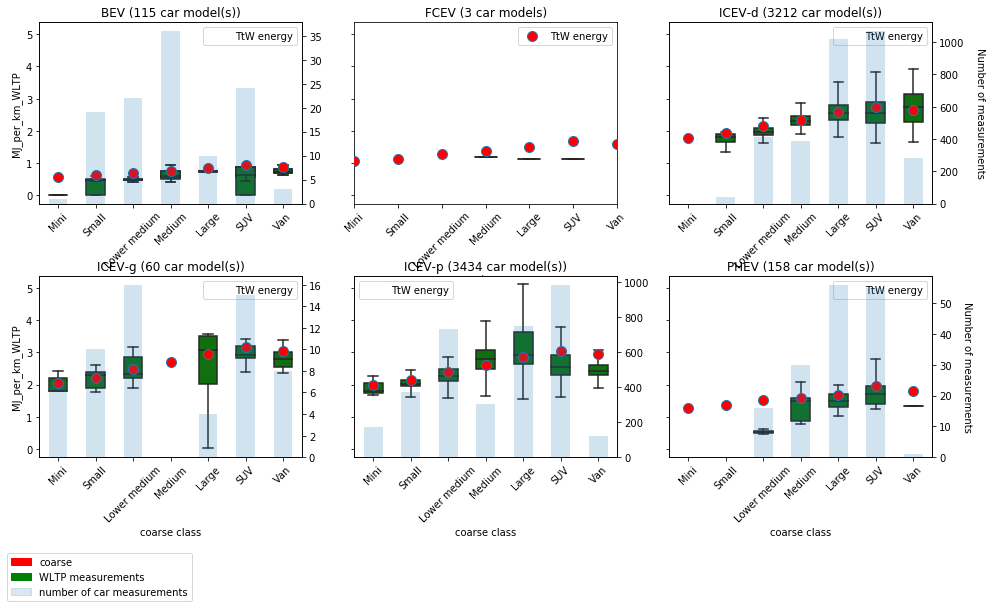
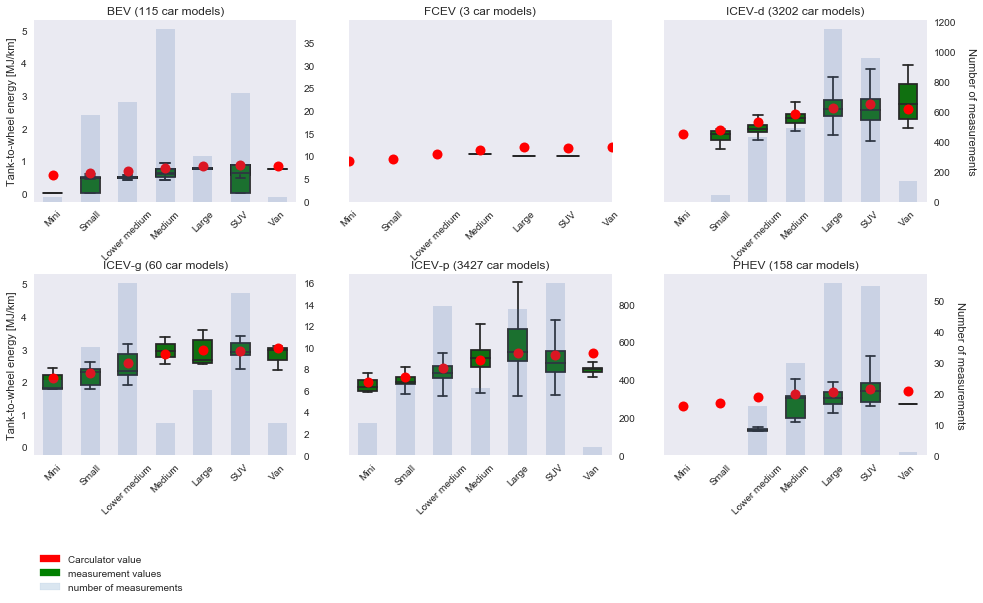
Update documentation

diff --git a/carculator/export.py b/carculator/export.py
@@ -282,7 +282,6 @@ class ExportInventory:
                         "code": str(uuid.uuid1()),
                     }
                 )
-
         if presamples:
             return (list_act, presamples_matrix)
         else:

diff --git a/docs/introduction.rst b/docs/introduction.rst
@@ -69,11 +69,7 @@ Once your environment created, you should activate it::
 
     conda activate <name of the environment>
 
-And install the development version of the ``carculator`` package in your new environment via Conda::
-
-    conda install -c conda-forge -c pascallesage -c cmutel -c romainsacchi/label/nightly carculator-dev
-
-Or from the Python Package Index::
+And install the ``carculator`` library in your new environment via Conda::
 
     pip install carculator
 
@@ -85,9 +81,12 @@ How to use it?
 Static vs. Stochastic mode
 **************************
 
-The inventories can be calculated using the most likely value of the given input parameters, but also using
-randomly-generated values based on a probability distribution for those.
-For example, the drivetrain efficiency of SUVs, regardless of the powertrain, is given the most likely value of 0.38,
+Note: many examples are given in this `notebook <https://github.com/romainsacchi/carculator/blob/master/examples/Examples.ipynb>`_ that you can run directly on your computer..
+
+The inventories can be calculated using the most likely value of the given input parameters ("static" mode), but also using
+randomly-generated values based on a probability distribution for those ("stochastic" mode).
+
+For example, the drivetrain efficiency of SUVs in 2017, regardless of the powertrain, is given the most likely value (i.e., the mode) of 0.38,
 but with a triangular probability distribution with a minimum and maximum of 0.3 and 0.4, respectively.
 
 Creating car models in static mode will use the most likely value of the given parameters to dimension the cars, etc., such as:
@@ -118,7 +117,7 @@ This effectively creates 800 iterations of the same car models, picking pseudo-r
 within the probability distributions defined. This allows to assess later the effect of uncertainty propagation on
 characterized results.
 
-In both case, a CarModel object is returned, with a 3-dimensional array `array` to store the generated parameters values, with the following dimensions:
+In both case, a CarModel object is returned, with a 4-dimensional array `array` to store the generated parameters values, with the following dimensions:
 
 0. Vehicle size, e.g. "small", "medium". str.
 1. Powertrain, e.g. "ICE-p", "BEV". str.
@@ -162,14 +161,24 @@ Then, you simply pass this dictionary to `modify_xarray_from_custom_parameters(<
 Alternatively, instead of a Python dictionary, you can pass a file path pointing to an Excel spreadsheet that contains
 the values to change, following `this template <https://github.com/romainsacchi/carculator/raw/master/docs/template_workbook.xlsx>`_.
 
+The following probability distributions are accepted:
+* "triangular"
+* "lognormal"
+* "normal"
+* "uniform"
+* "none"
+
 Inter and extrapolation of parameters
 *************************************
 
+``carculator`` creates by default car models for the year 2000, 2010, 2017 and 2040.
 It is possible to inter and extrapolate all the parameters to other years simply by writing:
 
 .. code-block:: python
 
     array = array.interp(year=[2018, 2022, 2035, 2040, 2045, 2050],  kwargs={'fill_value': 'extrapolate'})
+
+However, we do not recommend extrapolating for years before 2000 or beyond 2050.
 
 
 Changing the driving cycle
@@ -250,7 +259,7 @@ value for the tank-to-wheel energy, you would have a distribution of values:
     :alt: Alternative text
 
 Any other attributes of the CarModel class can be obtained in a similar way.
-Hence, the following lists all direct exhaust emissions included in the inventory of an petrol Van in 2017:
+Hence, the following code lists all direct exhaust emissions included in the inventory of an petrol Van in 2017:
 
 List of all the given and calculated parameters of the car model:
 
@@ -270,9 +279,6 @@ Finally, return their values and display the first 10 in a table:
 
     cm.array.sel(parameter=direct_emissions, year=2017, size='Van', powertrain='BEV').to_dataframe(name='direct emissions')
 
-.. image:: https://github.com/romainsacchi/carculator/raw/master/docs/example_direct_emissions.png
-    :width: 400
-    :alt: Alternative text
 
 
 Or we could be interested in visualizing the distribution of non-characterized noise emissions, in joules:
@@ -292,18 +298,18 @@ Or we could be interested in visualizing the distribution of non-characterized n
 Modify calculated parameters
 ****************************
 
-As input parameters, calculated parameters cna also be overridden. For exmaple here, we override the `driving mass`
-of large diesel vehicles in, for all years:
+As input parameters, calculated parameters can also be overridden. For example here, we override the `driving mass`
+of large diesel vehicles for 2010 and 2017:
 
 .. code-block:: python
 
-    cm.array.loc['Large','ICEV-d','driving mass',:] = [[2000],[2200]]
+    cm.array.loc['Large','ICEV-d','driving mass',[2010, 2017]] = [[2000],[2200]]
 
 Characterization of inventories (static)
 ****************************************
 
 ``carculator`` makes the characterization of inventories easy. You can characterize the inventories directly from
-``carculator`` against midpoint, endpoint and single score impact assessment methods.
+``carculator`` against midpoint impact assessment methods.
 
 For example, to obtain characterized results against the midpoint impact assessment method ReCiPe for all cars:
 

diff --git a/docs/validity.rst b/docs/validity.rst
@@ -192,8 +192,9 @@ On an equivalent diesel powertrain, the mass of the glider base is comparatively
     
 
 
-The `curb mass` returned by ``carculator`` is plotted against manufacturers' data, per vehicle size class and powertrain technology.
-To do so, we use the car database Car2db (https://car2db.com/) and load all car trims produced after 2013 (21,383 vehicles).
+The `curb mass` returned by ``carculator`` for the year 2010 and 2017 is further calibrated against manufacturers' data, per vehicle size class and powertrain technology.
+For example, we use the car database Car2db (https://car2db.com/) and load all the vehicles produced between 2015 and 2019 (11,500+ vehicles) to do the curb mass calibration for 2017 vehicles.
+The same exercise is done with vehicles between 2008 and 2012 to calibrate the curb mass of given by carculator for vehicles in 2010.
 
     
 .. image:: https://github.com/romainsacchi/carculator/raw/master/docs/mass_comparison.png
@@ -203,11 +204,13 @@ To do so, we use the car database Car2db (https://car2db.com/) and load all car 
 
 Tank-to-wheel energy
 --------------------
-The EU tests all new commercialized cars for emissions and energy consumption according to the WLTC driving cycle (v.3).
+The European Commission monitors all new registered cars for emissions and energy consumption according to the WLTC driving cycle (v.3).
 See: https://www.eea.europa.eu/data-and-maps/data/co2-cars-emission-16
 
 However, this database does not directly give energy consumption.
 But we can use CO2 emission measurements with the lower heating value of the corresponding fuel to back-calculate the energy consumption.
+Here is an example, where the 2017 vehicle fuel consumption is calibrated against 15,000,000+ measurements found in the EU database for vehicles registered in 2018
+(the 2017 database could not be used as emissions were not measured according to WLTC just yet).
 
 .. image:: https://github.com/romainsacchi/carculator/raw/master/docs/EU_energy_comparison.png
     :width: 900
